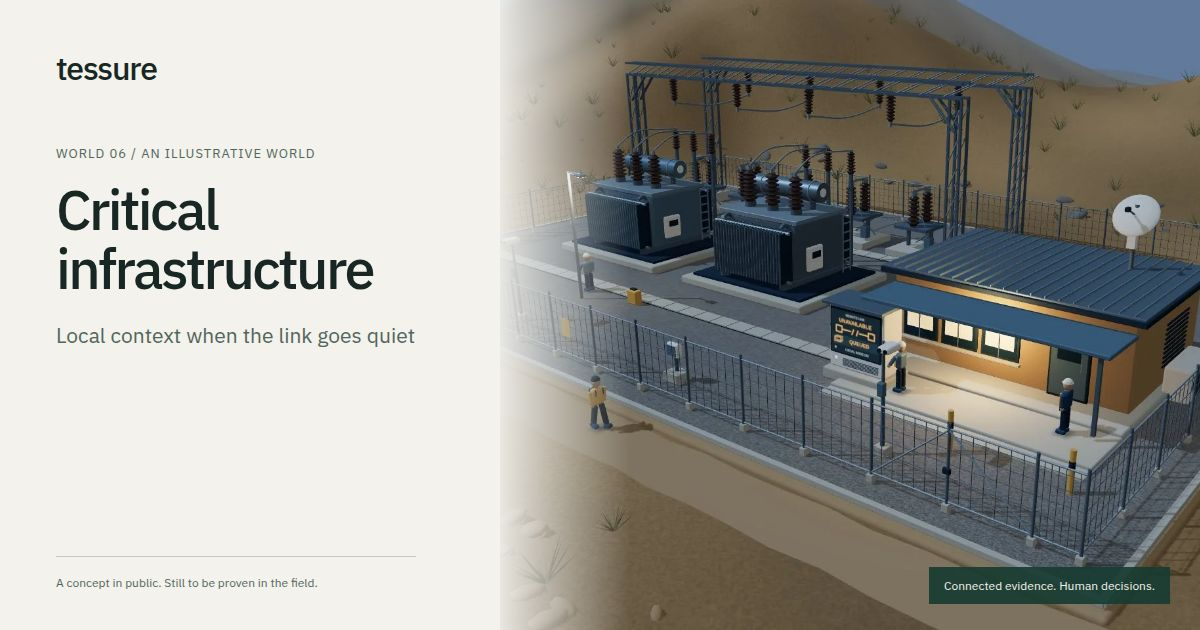
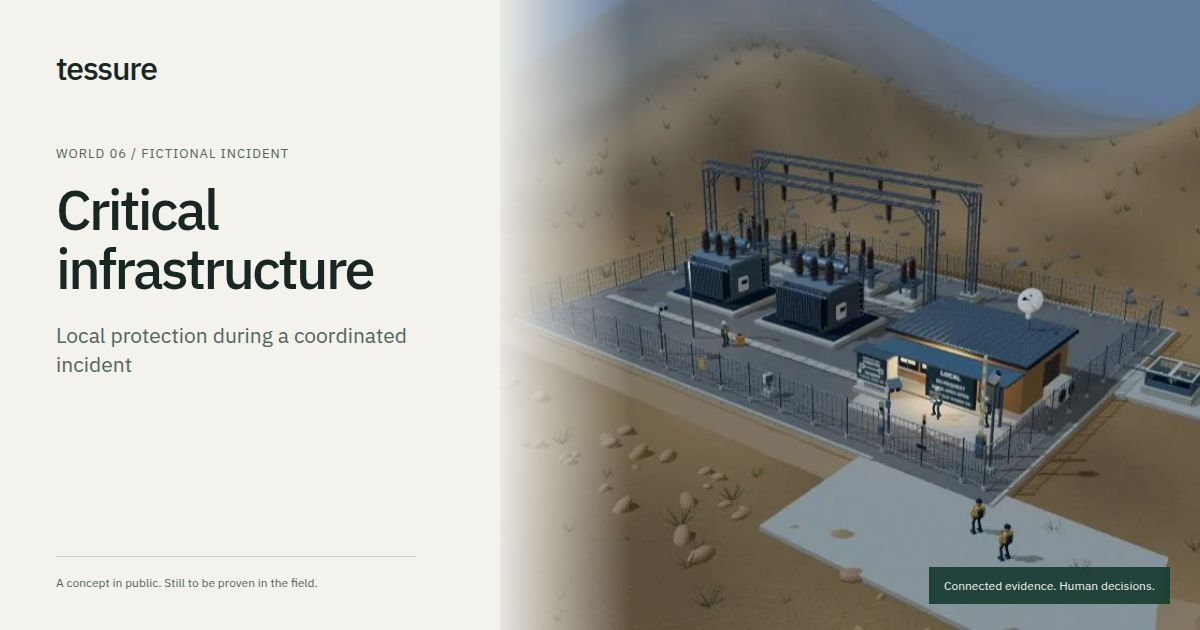
Align public copy and social artwork with the incident release
Describe the six authored incidents and independent estate comparison, distinguish early permitted site actions from human-directed response, and regenerate social cards from current world assets. Preserve the archived README statement.

Codex-Agent: tessure-lead
Codex-Session: 01a0d046-8f6f-7872-8e14-ceb8e2f71b97

diff --git a/site/app/page.tsx b/site/app/page.tsx
@@ -5,21 +5,21 @@ import WorldExplorer from '@/components/worlds/explorer'
 export default function Home() {
   return <><SiteHeader /><main id="main">
     <section className="hero section-width">
-      <div className="hero-copy"><p className="eyebrow"><span className="status-dot" />A physical security concept</p><h1>Many signals.<br /><span>One clear<br className="desktop-break" /> picture.</span></h1><p className="hero-description">Tessure is designed to automatically connect and verify sensor observations on site, giving security teams one evidence-backed picture before a costly call.</p><div className="hero-actions"><a className="button primary" href="#worlds">Explore the worlds <span aria-hidden="true">↗</span></a><a className="text-link" href="#system">How it would work <span aria-hidden="true">↓</span></a></div><p className="hero-footnote">Local intelligence. Connected evidence. Human decisions.</p></div>
+      <div className="hero-copy"><p className="eyebrow"><span className="status-dot" />A physical security concept</p><h1>Many signals.<br /><span>One clear<br className="desktop-break" /> picture.</span></h1><p className="hero-description">Tessure is designed to automatically connect and cross-check sensor observations on site, giving security teams the evidence to choose and coordinate a response.</p><div className="hero-actions"><a className="button primary" href="#worlds">Explore the worlds <span aria-hidden="true">↗</span></a><a className="text-link" href="#system">How it would work <span aria-hidden="true">↓</span></a></div><p className="hero-footnote">Local intelligence. Connected evidence. Human decisions.</p></div>
       <HeroWorld />
     </section>
-    <section className="thesis section-width" aria-labelledby="thesis-heading"><p className="eyebrow">Why it matters</p><div className="thesis-layout"><h2 id="thesis-heading">A signal tells you<br />something happened.<br /><span>Context helps you<br />decide what comes next.</span></h2><div className="thesis-copy"><p>Separate systems raise separate alerts. People must piece them together and sort signal from noise. At sites where the consequences are high, a slow or wrong call can be costly.</p><p>Tessure proposes automatically correlating and checking camera, radar, thermal and site observations locally. The aim: one verified picture with supporting evidence, a person who decides what happens next, and a record of why. Here, verification means cross-checking observations; permission and the response still need site context and human review.</p><div className="signal-diagram" aria-label="Camera, radar and thermal observations converge into an event for human review"><div className="signal-inputs"><span>Camera</span><span>Radar</span><span>Thermal</span></div><div className="signal-converge" aria-hidden="true"><i /><i /><i /></div><div className="signal-event"><Mark /><span>One event</span></div><span className="signal-arrow" aria-hidden="true">→</span><div className="signal-human">Human<br />review</div></div></div></div></section>
-    <section id="worlds" className="worlds-section" aria-labelledby="worlds-heading"><div className="section-width"><div className="section-intro"><div><p className="eyebrow">Explore the possibilities</p><h2 id="worlds-heading">Different places.<br /><span>Different decisions.</span></h2></div><p>Six worlds, built around the questions each site asks. Follow the observations, explore the evidence, and pause where a person makes the call.<small>These are authored illustrations of a proposed system. They do not demonstrate working detection software or measured performance.</small></p></div>
+    <section className="thesis section-width" aria-labelledby="thesis-heading"><p className="eyebrow">Why it matters</p><div className="thesis-layout"><h2 id="thesis-heading">A signal tells you<br />something happened.<br /><span>Context helps you<br />decide what comes next.</span></h2><div className="thesis-copy"><p>Separate systems raise separate alerts. People must piece them together and sort signal from noise. At sites where the consequences are high, a slow or wrong call can be costly.</p><p>Tessure proposes automatically correlating camera, radar, thermal and site-control observations locally. Independent views help check what happened; site context connects those observations into an incident. A person reviews the evidence and directs the response, while permitted local holds and alerts follow the site’s policy.</p><div className="signal-diagram" aria-label="Camera, radar and thermal observations converge into an event for human review"><div className="signal-inputs"><span>Camera</span><span>Radar</span><span>Thermal</span></div><div className="signal-converge" aria-hidden="true"><i /><i /><i /></div><div className="signal-event"><Mark /><span>One event</span></div><span className="signal-arrow" aria-hidden="true">→</span><div className="signal-human">Human<br />review</div></div></div></div></section>
+    <section id="worlds" className="worlds-section" aria-labelledby="worlds-heading"><div className="section-width"><div className="section-intro"><div><p className="eyebrow">Explore the possibilities</p><h2 id="worlds-heading">Different places.<br /><span>Different decisions.</span></h2></div><p>Six fictional security incidents. Follow the threat from the first observation through a coordinated physical response. Then compare the estate intrusion with a benign wildlife event.<small>These are authored illustrations of a proposed system. They do not demonstrate working detection software or measured performance.</small></p></div>
       <ol className="step-definitions" aria-label="Six steps in each illustration">
         <li><strong>Detect</strong><span>Notice activity that needs a closer look.</span></li>
         <li><strong>Verify</strong><span>Cross-check independent observations of the same activity.</span></li>
         <li><strong>Correlate</strong><span>Link the observations with site context and records.</span></li>
         <li><strong>Human review</strong><span>A person reviews the evidence and chooses a response.</span></li>
-        <li><strong>Respond</strong><span>Show the response chosen by the person.</span></li>
+        <li><strong>Respond</strong><span>Carry out permitted site actions and human handoffs.</span></li>
         <li><strong>Record</strong><span>Record the outcome and any questions still open.</span></li>
       </ol>
       <WorldExplorer /></div></section>
-    <section id="system" className="system-section" aria-labelledby="system-heading"><div className="section-width"><div className="section-intro"><div><p className="eyebrow">The system we're imagining</p><h2 id="system-heading">A layer of understanding.<br /><span>At the site.</span></h2></div><p>Designed to work with the cameras and security workflows a site already has. Complementary sensors would add context where it is needed.</p></div><div className="system-layout"><div className="node-study"><div className="node-label"><span>Fusion Node</span><span>Hardware concept</span></div><div className="node-drawing" aria-label="Illustrative Fusion Node enclosure with cooling fins and sensor connections" role="img"><div className="node-shadow" /><div className="node-case"><div className="node-fins">{Array.from({ length: 15 }, (_, i) => <i key={i} />)}</div><div className="node-face"><Mark /><span>tessure</span><i /></div><div className="node-ports"><i /><i /><i /><i /></div></div></div><p>An on-site appliance concept for bringing observations together locally.</p></div><div className="system-parts"><article><span>01 / Observe together</span><h3>Fusion Node</h3><p>Proposed on-site processing would automatically correlate and cross-check observations. Site records would add context, such as expected arrivals or cargo releases. Gaps and conflicting evidence would stay visible.</p></article><article><span>02 / Decide with context</span><h3>Command</h3><p>An operator would see the supporting observations, the remaining uncertainty and a suggested response. The decision stays with a person.</p></article><article><span>03 / Keep the reason</span><h3>Evidence</h3><p>The intended record links observations, the operator's decision and the resulting handoff. It preserves why an action was taken.</p></article></div></div><div className="design-principles"><div><span>Local by design</span><p>Process observations at the site. Make connection loss and sensor gaps visible.</p></div><div><span>Considered by design</span><p>Minimize unnecessary identity data. Give people a clear approval boundary.</p></div><div><span>Connected by design</span><p>Fit the systems a site uses. Preserve context when an event is handed over.</p></div></div></div></section>
+    <section id="system" className="system-section" aria-labelledby="system-heading"><div className="section-width"><div className="section-intro"><div><p className="eyebrow">The system we're imagining</p><h2 id="system-heading">A layer of understanding.<br /><span>At the site.</span></h2></div><p>Designed to work with the cameras and security workflows a site already has. Complementary sensors would add context where it is needed.</p></div><div className="system-layout"><div className="node-study"><div className="node-label"><span>Fusion Node</span><span>Hardware concept</span></div><div className="node-drawing" aria-label="Illustrative Fusion Node enclosure with cooling fins and sensor connections" role="img"><div className="node-shadow" /><div className="node-case"><div className="node-fins">{Array.from({ length: 15 }, (_, i) => <i key={i} />)}</div><div className="node-face"><Mark /><span>tessure</span><i /></div><div className="node-ports"><i /><i /><i /><i /></div></div></div><p>An on-site appliance concept for bringing observations together locally.</p></div><div className="system-parts"><article><span>01 / Observe together</span><h3>Fusion Node</h3><p>Proposed on-site processing would automatically correlate and cross-check observations. Site records would add context, such as expected arrivals or cargo releases. Gaps and conflicting evidence would stay visible.</p></article><article><span>02 / Decide with context</span><h3>Command</h3><p>An operator would see the observations, remaining uncertainty and a proposed response. The illustration makes each approval clear, alongside local actions already permitted by site policy.</p></article><article><span>03 / Keep the reason</span><h3>Evidence</h3><p>The intended record links observations, the operator's decision and the physical response. It preserves why an action was taken, the supported outcome and any questions still open.</p></article></div></div><div className="design-principles"><div><span>Local by design</span><p>Process observations at the site. Make connection loss and sensor gaps visible.</p></div><div><span>Considered by design</span><p>Minimize unnecessary identity data. Give people a clear approval boundary.</p></div><div><span>Connected by design</span><p>Fit the systems a site uses. Preserve context when an event is handed over.</p></div></div></div></section>
     <section className="honesty section-width"><p className="eyebrow">Where the idea stands</p><div><h2>Designed here.<br /><span>Still to be proven<br />in the field.</span></h2><div><p>Tessure is a concept, not a deployed security product. These worlds explain the proposed approach.</p><p>Hardware, sensor integration, reliability, privacy controls and real-world performance still require engineering and field validation.</p><a className="text-link" href="https://github.com/fl-sean03/tessure/blob/main/specs/PRODUCT_ARCHITECTURE.md" target="_blank" rel="noreferrer">Read the original concept architecture ↗</a><small>A historical design document. Its specifications are proposals, not validated capabilities.</small></div></div></section>
     <section className="contact-section"><div className="section-width"><p className="eyebrow">A conversation worth having</p><h2>What would a clearer<br />picture change for your site?</h2><p className="contact-purpose">Get in touch with questions, feedback or thoughts on the Tessure concept.</p><a className="button light" href="mailto:sean.florez@colorado.edu">Share your thoughts <span aria-hidden="true">↗</span></a><p>sean.florez@colorado.edu</p></div></section>
   </main><SiteFooter /></>

diff --git a/site/app/layout.tsx b/site/app/layout.tsx
@@ -6,9 +6,9 @@ const mono = localFont({ src: '../public/fonts/ibm-plex-mono-latin-400-normal.wo
 export const metadata: Metadata = {
   metadataBase: new URL('https://v0-tessure.vercel.app'),
   title: { default: 'Tessure — Many signals. One clear picture.', template: '%s — Tessure' },
-  description: 'A physical security concept designed to correlate and verify sensor observations on site, supporting security teams with evidence before consequential decisions. Explore six illustrative worlds.',
+  description: 'A physical security concept designed to correlate and verify sensor observations on site, connecting evidence with human decisions and local response. Explore six fictional security incidents.',
   alternates: { canonical: '/' },
-  openGraph: { title: 'Tessure — Many signals. One clear picture.', description: 'Explore a concept for physical security built around context, evidence and human decisions.', type: 'website', locale: 'en_US', images: [{ url: '/social/home.jpg', width: 1200, height: 630, alt: 'Tessure: Many signals. One clear picture. An original gate-world illustration.' }] },
+  openGraph: { title: 'Tessure — Many signals. One clear picture.', description: 'Explore a concept for physical security built around context, evidence and human decisions.', type: 'website', locale: 'en_US', images: [{ url: '/social/home.jpg', width: 1200, height: 630, alt: 'Tessure: Many signals. One clear picture. An original logistics-yard cargo-diversion illustration.' }] },
   twitter: { card: 'summary_large_image' },
   icons: { icon: '/icon.svg' },
 }

diff --git a/site/app/worlds/[slug]/page.tsx b/site/app/worlds/[slug]/page.tsx
@@ -11,5 +11,5 @@ export async function generateMetadata({ params }: { params: Promise<{ slug: str
 }
 export default async function ScenePage({ params }: { params: Promise<{ slug: string }> }) {
   const { slug } = await params; const s = findScene(slug); if (!s) notFound()
-  return <><SiteHeader /><main id="main" className="scene-page section-width"><p className="eyebrow">An illustrative Tessure world</p><h1>{s.name}</h1><p className="scene-page-intro">{s.description} Explore the proposed role of connected evidence and human decisions. This is an authored illustration, not working detection software.</p><WorldExplorer initialScene={slug} /><a className="text-link" href="/#system">Explore the proposed Tessure system →</a></main><SiteFooter /></>
+  return <><SiteHeader /><main id="main" className="scene-page section-width"><p className="eyebrow">An illustrative Tessure world</p><h1>{s.name}</h1><p className="scene-page-intro">{s.description} Explore the authored incident, the evidence behind the decision and the physical response. This is an authored illustration, not working detection software.</p><WorldExplorer initialScene={slug} /><a className="text-link" href="/#system">Explore the proposed Tessure system →</a></main><SiteFooter /></>
 }

diff --git a/README.md b/README.md
@@ -1,10 +1,10 @@
 # Tessure
 
-A public concept for a physical-security system designed to correlate and verify site sensor observations automatically, with evidence supporting a human decision. The website explains the proposed approach through six illustrative worlds. It is not a deployed security product.
+A public concept for a physical-security system designed to correlate and verify site sensor observations automatically, with evidence supporting a human decision. The website explains the proposed approach through six fictional security incidents and a separate benign estate comparison. It is not a deployed security product.
 
 ## Website
 
-The deployable Next.js application is in `site/`. It uses React and a deferred Three.js / React Three Fiber renderer. The page first presents static content and a self-made poster. Capable devices play a short original world film; visitors choose when to enter the interactive explorer. Reduced-motion, data-saving and low-power modes retain a still. The same narrative remains available as text.
+The deployable Next.js application is in `site/`. It uses React and a deferred Three.js / React Three Fiber renderer. The page first presents static content and a self-made poster. Capable devices play a short original world film; visitors choose when to enter the interactive explorer. Reduced-motion, data-saving and low-power modes retain a still. The same narrative remains available as text and state-matched stills. Each primary incident pauses for human review before the operator's chosen response. Preauthorized local holds or alerts can appear earlier under site policy. The estate comparison has its own timeline and decision not to dispatch.
 
 ```sh
 cd site
@@ -17,6 +17,7 @@ Validation and a production build:
 ```sh
 npm run typecheck
 npm run check:contract
+npm run check:release
 npm run build
 npm start
 ```
